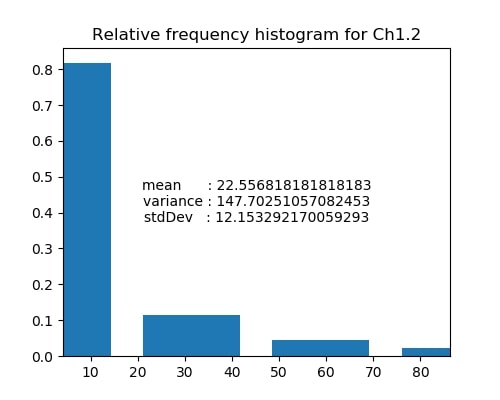
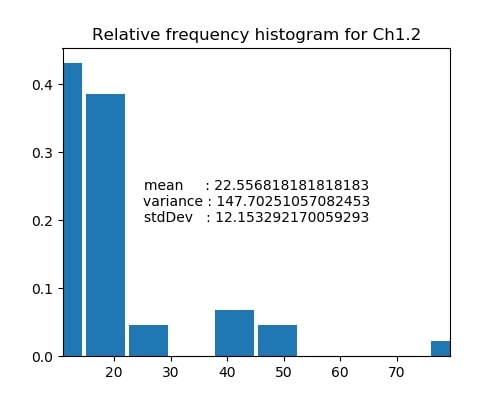
adding minor changes

diff --git a/Ch1/Ch1.2.py b/Ch1/Ch1.2.py
@@ -23,7 +23,7 @@ values = data[assign_name]
 #       scipy's relfreq which is a relative frequency histogram
 # We then pass the values from above, and a numbers of bins 
 #       we want to associate with the data set.
-histogram = stats.relfreq(values, numbins=4)
+histogram = stats.relfreq(values, numbins=10)
 numpy.sum( histogram.frequency )
 
 x = histogram.lowerlimit + numpy.linspace(

diff --git a/Ch1/Ch1.3.py b/Ch1/Ch1.3.py
@@ -21,7 +21,7 @@ values = data[assign_name]
 #       scipy's relfreq which is a relative frequency histogram
 # We then pass the values from above, and a numbers of bins 
 #       we want to associate with the data set.
-histogram = stats.relfreq(values, numbins=4)
+histogram = stats.relfreq(values, numbins=10)
 numpy.sum( histogram.frequency )
 
 x = histogram.lowerlimit + numpy.linspace(

diff --git a/Ch1/Ch1.4.py b/Ch1/Ch1.4.py
@@ -21,7 +21,7 @@ values = data[assign_name]
 #       scipy's relfreq which is a relative frequency histogram
 # We then pass the values from above, and a numbers of bins 
 #       we want to associate with the data set.
-histogram = stats.relfreq(values, numbins=4)
+histogram = stats.relfreq(values, numbins=10)
 numpy.sum( histogram.frequency )
 
 x = histogram.lowerlimit + numpy.linspace(
